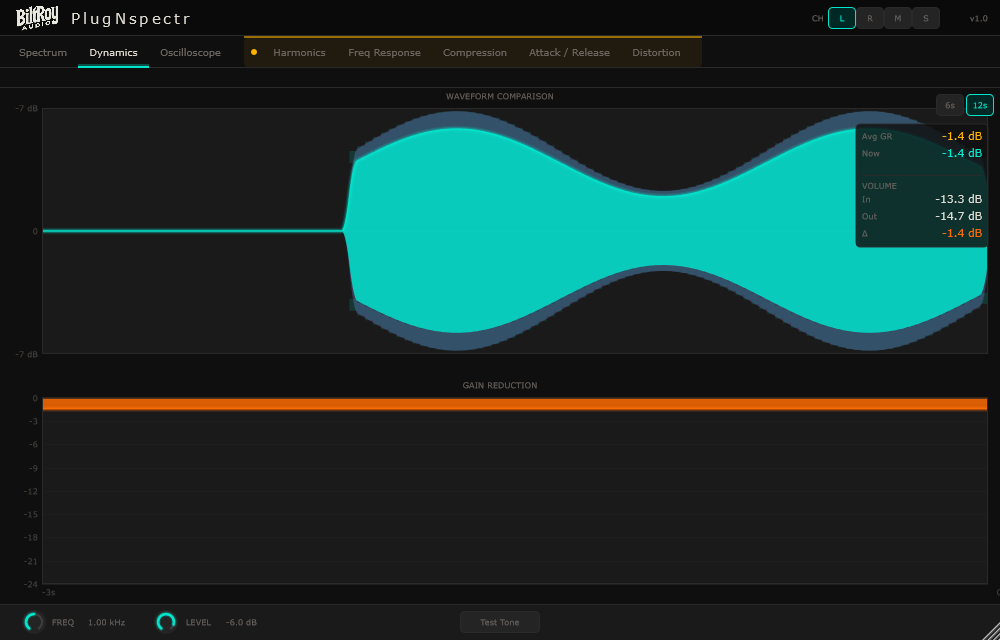
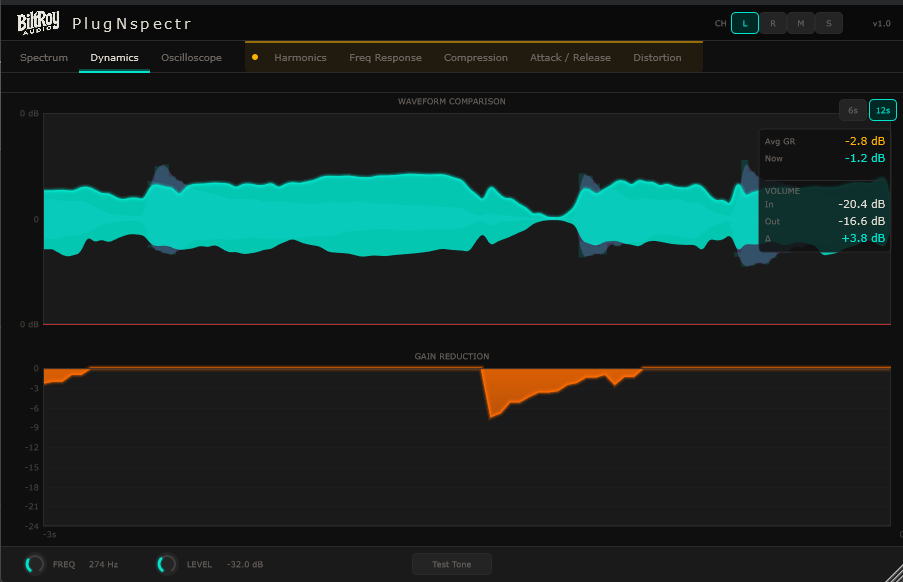
docs: real in-DAW screenshots for every tab (+ test isolation fix) (#25)
* docs: use live Spectrum capture as the README hero

Replaces the harness-rendered Dynamics hero with a real in-DAW Spectrum
screenshot (Cubase, live audio, variance markers). Also fills the Spectrum tab's
pending-refresh placeholder with the same shot. Oscilloscope and Harmonics
remain pending an in-DAW capture.

* test: drop non-hermetic preValid==false channel case

processBlock opens the global named shared memory, so getRms().preValid flips
true whenever a real PlugNspectrPre is live on the machine (e.g. a DAW session) —
the assertion failed exactly because the plugins were running in Cubase. Pre
connection is integration behavior, not a unit test; the hermetic
channel-derivation check (postDb from the buffer) is kept.

* docs: use clean Spectrum capture (no DAW chrome) for the Spectrum section

Keeps the in-DAW shot as the hero; the Spectrum tab section now uses a chrome-
free capture with the locked cursor readout.

* docs: real in-DAW Dynamics capture for the Dynamics section

Replaces the synthetic harness render with a live capture (real program material,
gain-reduction history, RMS readouts). Section already references this path.

* docs: add Oscilloscope section screenshot

Real in-DAW Oscilloscope capture; replaces the pending-refresh placeholder.
Harmonics is the last remaining placeholder.

* docs: add Harmonics section screenshot — all tabs now covered

Real in-DAW Harmonics capture (also showcases the measuring-safety banner +
[…]

diff --git a/tools/tests/test_channel_rms.cpp b/tools/tests/test_channel_rms.cpp
@@ -45,13 +45,8 @@ TEST_CASE ("Channel: L / R / Mid / Side derivation drives RMS")
     CHECK (std::abs (side  - dbOf (0.5f * (L - R)))  < 0.1f);     // (0.2) -13.98
 }
 
-TEST_CASE ("Channel: Pre is reported invalid when not connected")
-{
-    P proc;
-    proc.prepareToPlay (pnst::kSR, pnst::kBlk);
-    juce::MidiBuffer midi;
-    juce::AudioBuffer<float> buf (2, pnst::kBlk);
-    buf.clear();
-    proc.processBlock (buf, midi);
-    CHECK (proc.getRms().preValid == false);
-}
+// Note: there is intentionally no "preValid == false when not connected" case.
+// processBlock opens the *global* named shared memory, so that flag flips true
+// whenever a real PlugNspectrPre is live on the machine (e.g. a DAW session
+// open) — it isn't hermetic. Pre-connection is integration behavior, not a unit
+// test. The derivation check above stays hermetic: postDb comes from the buffer.

diff --git a/README.md b/README.md
@@ -4,7 +4,7 @@
 > A two-plugin VST3 signal-chain analyzer for Windows and any DAW that supports VST3.
 > Insert Pre and Post around any plugin — or a whole chain — to see exactly what it's doing to your audio.
 
-<img src="docs/screenshots/dynamics.png" width="900" alt="PlugNspectr Post — Dynamics tab" />
+<img src="docs/screenshots/spectrum-hero.png" width="900" alt="PlugNspectr Post — Spectrum tab analyzing live audio in Cubase" />
 
 ---
 
@@ -183,7 +183,7 @@ Throughout, the color language is consistent: **teal = your current selection**,
 
 ### Spectrum Tab
 
-> _Screenshot pending refresh._
+<img src="docs/screenshots/spectrum.png" width="820" alt="Spectrum tab" />
 
 Real-time FFT frequency analysis showing how the plugin is shaping your audio's frequency content.
 
@@ -226,7 +226,7 @@ Reveals how the plugin is affecting dynamic range and level in real time.
 
 ### Oscilloscope Tab
 
-> _Screenshot pending refresh._
+<img src="docs/screenshots/oscilloscope.png" width="820" alt="Oscilloscope tab" />
 
 A zero-crossing-triggered oscilloscope of both signals — useful for phase shifts, transient shaping, clipping, and saturation character.
 
@@ -242,7 +242,7 @@ A zero-crossing-triggered oscilloscope of both signals — useful for phase shif
 
 ### Harmonics Tab
 
-> _Screenshot pending refresh._
+<img src="docs/screenshots/harmonics.png" width="820" alt="Harmonics tab — harmonic spectrum with the measuring-safety banner active" />
 
 Harmonic-distortion analysis using a pure sine test tone. Identifies the character and intensity of even and odd harmonics H2–H8.
 
